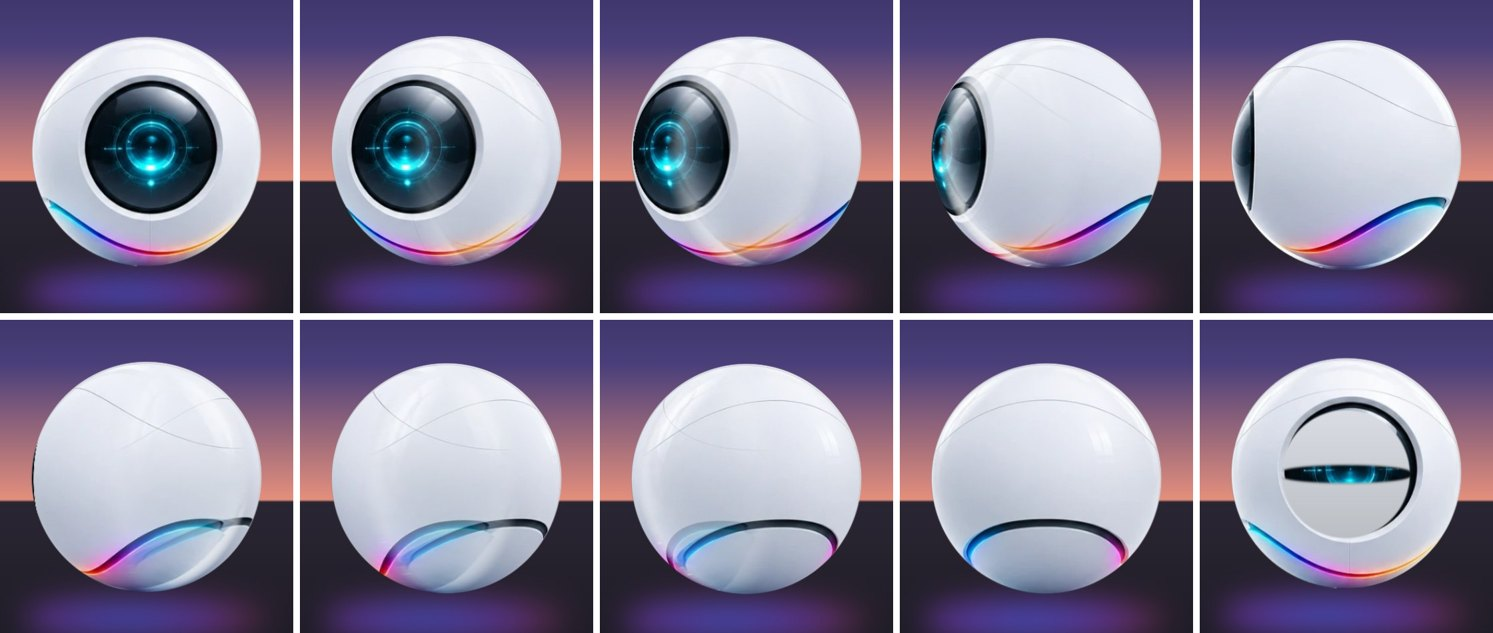
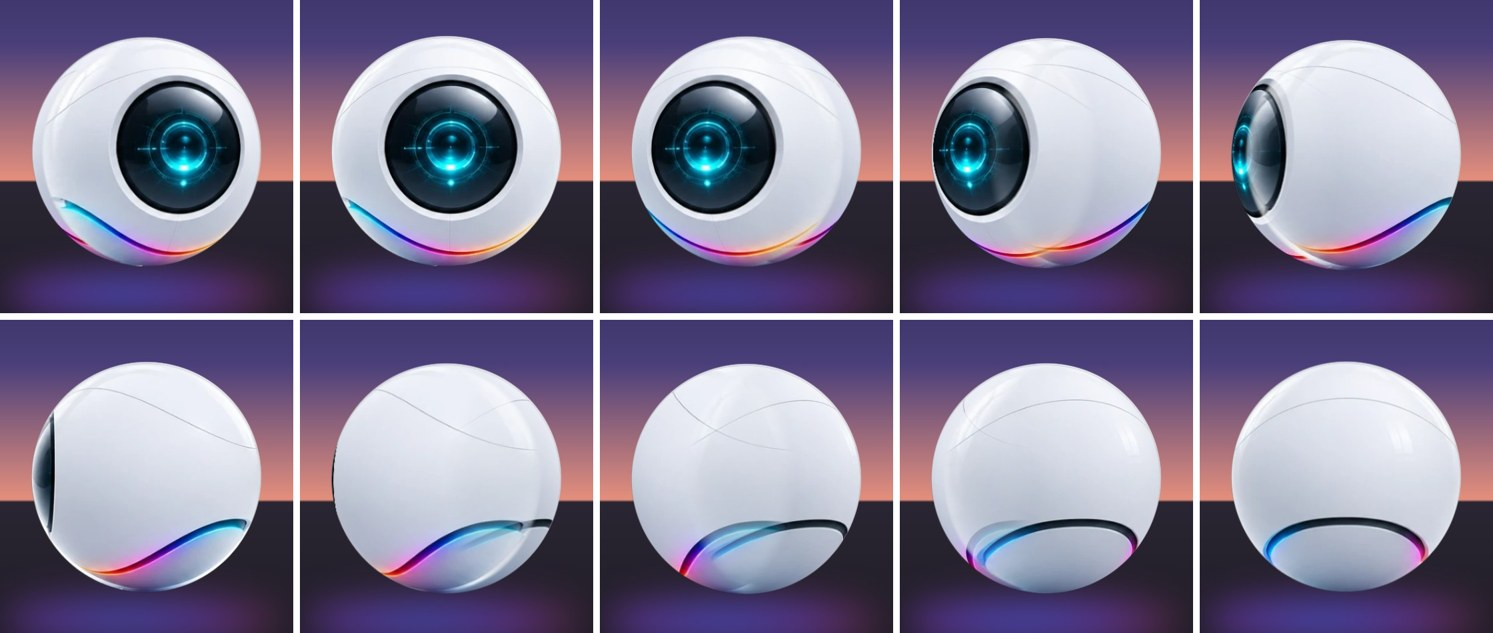
Hero prototype: no patches or light lines on the character as it turns; its trail and glow mix into the scene as light
Claude-Session: https://claude.ai/code/session_011BdSE2fEeiEv9ZgoYmWAPn

diff --git a/design/hero/orb-proto/index.html b/design/hero/orb-proto/index.html
@@ -41,11 +41,11 @@
   /* the character: its ribbon, the glow underneath, and the owner's artwork turned smoothly */
   .orb { position: absolute; z-index: 4; left: 27%; top: 56%; width: clamp(170px, 27vw, 430px); aspect-ratio: 1; transform: translate(-50%, -50%); will-change: transform; cursor: pointer; border-radius: 50%; touch-action: manipulation; }
   .orb canvas, .orb img { position: absolute; inset: 0; width: 100%; height: 100%; display: block; }
-  .ground { position: absolute; left: 12%; right: 12%; bottom: -9%; height: 15%; border-radius: 50%; filter: blur(18px);
+  .ground { position: absolute; left: 6%; right: 6%; bottom: -10%; height: 16%; border-radius: 50%; filter: blur(22px); mix-blend-mode: screen;
     background: radial-gradient(ellipse at 42% 50%, rgb(40 110 255 / 0.7), rgb(150 70 255 / 0.55) 45%, rgb(255 80 170 / 0.3) 62%, rgb(255 80 170 / 0) 76%); will-change: opacity, transform; }
-  .trail { position: absolute; z-index: 3; left: 27%; top: 56%; width: 80vw; height: clamp(110px, 18vw, 300px); transform-origin: 100% 50%; transform: translate(-100%, -50%) rotate(-14deg); opacity: 0; pointer-events: none; filter: blur(14px);
+  .trail { position: absolute; z-index: 3; left: 27%; top: 56%; width: 62vw; height: clamp(110px, 18vw, 300px); transform-origin: 100% 50%; transform: translate(-100%, -50%) rotate(-14deg); opacity: 0; pointer-events: none; filter: blur(26px); mix-blend-mode: screen;
     background: linear-gradient(180deg, rgb(0 230 255 / 0), #19d8ff 14%, #2f7bff 34%, #8a3cff 54%, #ff3ea5 74%, #ff8a1e 90%, rgb(255 138 30 / 0));
-    -webkit-mask-image: linear-gradient(90deg, transparent, #000 55%, #000 92%, transparent); mask-image: linear-gradient(90deg, transparent, #000 55%, #000 92%, transparent); }
+    -webkit-mask-image: radial-gradient(ellipse 100% 62% at 100% 50%, #000 0%, rgb(0 0 0 / 0.55) 34%, transparent 74%); mask-image: radial-gradient(ellipse 100% 62% at 100% 50%, #000 0%, rgb(0 0 0 / 0.55) 34%, transparent 74%); }
 
   .foot { position: absolute; z-index: 5; inset: auto 0 0; display: flex; align-items: flex-end; justify-content: space-between; gap: 16px; padding: 0 clamp(16px, 3.4vw, 65px) max(22px, env(safe-area-inset-bottom, 0px)); font-size: 12px; letter-spacing: 0.2em; text-transform: uppercase; color: var(--soft); }
 
@@ -116,14 +116,16 @@
     "  float c=cos(uYaw), s=sin(uYaw);",
     "  vec3 o=vec3(dot(n,vec3(c,0.,s)), n.y, dot(n,vec3(-s,0.,c)));",               // the same point on the character itself
     "  float q=uYaw/1.5708;",                                                       // 0 front, 1 side, 2 back
-    "  float wF=clamp(1.-abs(q),0.,1.)*smoothstep(0.,.3,o.z);",
-    "  float wS=clamp(1.-abs(q-1.),0.,1.)*smoothstep(0.,.3,o.x);",
-    "  float wB=clamp(q-1.,0.,1.)*smoothstep(0.,.3,-o.z);",
+    "  float gF=clamp(1.-abs(q),0.,1.), gS=clamp(1.-abs(q-1.),0.,1.), gB=clamp(q-1.,0.,1.);",   // how close the pose is to each of the three views
+    "  float tF=.5*(1.-gF), tS=.5*(1.-gS), tB=.5*(1.-gB);",                         // away from its own pose a view gives only its middle, never its rim
+    "  float wF=gF*smoothstep(tF,tF+mix(.34,.1,gF),o.z), wS=gS*smoothstep(tS,tS+mix(.34,.1,gS),o.x), wB=gB*smoothstep(tB,tB+mix(.34,.1,gB),-o.z);",   // joined softly, so no line shows where two views meet
     "  float rho=length(o.xy);",
     "  vec2 fo=o.xy-uLook*(1.-smoothstep(.24,.50,rho))*step(0.,o.z);",              // the light inside the eye slides toward what it looks at
     "  vec3 cF=texture2D(uF,.5+.42*fo).rgb, cS=texture2D(uS,.5+.42*vec2(-o.z,o.y)).rgb, cB=texture2D(uB,.5+.42*vec2(-o.x,o.y)).rgb;",
+    "  float fF=pow(max(o.z,0.),3.)+.0005, fS=pow(abs(o.x),3.)+.0005, fB=pow(max(-o.z,0.),3.)+.0005;",
+    "  vec3 fill=(cF*fF+cS*fS+cB*fB)/(fF+fS+fB);",                                  // every part of the body has something to show, so no patches
     "  float w=wF+wS+wB;",
-    "  vec3 col=mix(vec3(.93,.945,.965), (cF*wF+cS*wS+cB*wB)/max(w,.0001), smoothstep(0.,.12,w));",
+    "  vec3 col=mix(fill, (cF*wF+cS*wS+cB*wB)/max(w,.0001), smoothstep(0.,.5,w));",
     "  float edge=(1.-uBlink)*.56;",                                                // the lids, closing over the eye
     "  float span=sqrt(max(0.,1.-o.x*o.x/.3136));",                                 // the lids follow the round of the eye
     "  float lid=step(0.,o.z)*smoothstep(.565,.545,rho)*smoothstep(0.,.03,abs(o.y)-edge*span);",
@@ -174,7 +176,7 @@
     speed *= Math.pow(0.02, dt); var v = still ? 0 : Math.min(1, speed / 90);
     var since = t - hello, wiggle = since < 1.1 ? Math.sin(since * 13) * 0.5 * (1 - since / 1.1) : 0;       // a tap: it shakes its head and blinks twice
     if (since > 0.28 && since < 0.32) blink = 1;
-    var target = moving ? Math.PI : clamp(-want[0] * 0.9, -0.42, 0.42) + wiggle;                              // looks ahead while moving, else toward the pointer
+    var target = moving ? Math.PI : clamp(-want[0] * 0.7, -0.3, 0.3) + wiggle;                              // looks ahead while moving, else toward the pointer
     yaw += (target - yaw) * (1 - Math.pow(0.004, dt));
     if (typeof window.__testYaw === "number") yaw = window.__testYaw;                                          // for checking a pose
     var lx = moving ? 0 : clamp(want[0] * 0.5, -0.1, 0.1), ly = moving ? 0 : clamp(-want[1] * 0.5, -0.1, 0.1);
@@ -187,9 +189,9 @@
     var bob = still ? 0 : Math.sin(t * 1.7) * 6, push = v * 10, hop = since < 0.5 ? -Math.sin(since / 0.5 * Math.PI) * 14 : 0;
     orb.style.transform = "translate(-50%,-50%) translate(" + (push * 0.6).toFixed(1) + "px," + (bob - push * 0.3 + hop).toFixed(1) + "px) rotate(" + (v * -4 + (moving ? 0 : want[1] * -6)).toFixed(2) + "deg) scale(" + (1 + grow * 0.06).toFixed(3) + ")";
     ground.style.opacity = (0.8 + grow * 0.2 + 0.1 * Math.sin(t * 1.3)).toFixed(3); ground.style.transform = "scale(" + (1 + grow * 0.18 - hop * 0.004).toFixed(3) + ")";
-    trail.style.opacity = (v * 0.9).toFixed(3);
+    trail.style.opacity = (v * 0.7).toFixed(3);
     world.style.transform = "scale(" + (1 + v * 0.06).toFixed(4) + ")";
-    rays.style.opacity = (v * 0.38).toFixed(3); rays.style.transform = "scale(" + (1 + ((t * 1.4) % 1) * 0.25).toFixed(3) + ")";
+    rays.style.opacity = (v * 0.2).toFixed(3); rays.style.transform = "scale(" + (1 + ((t * 1.4) % 1) * 0.25).toFixed(3) + ")";
     if (ready) {
       var w = canvas.clientWidth * Math.min(2, window.devicePixelRatio || 1) | 0;
       if (canvas.width !== w && w > 0) { canvas.width = w; canvas.height = w; }
